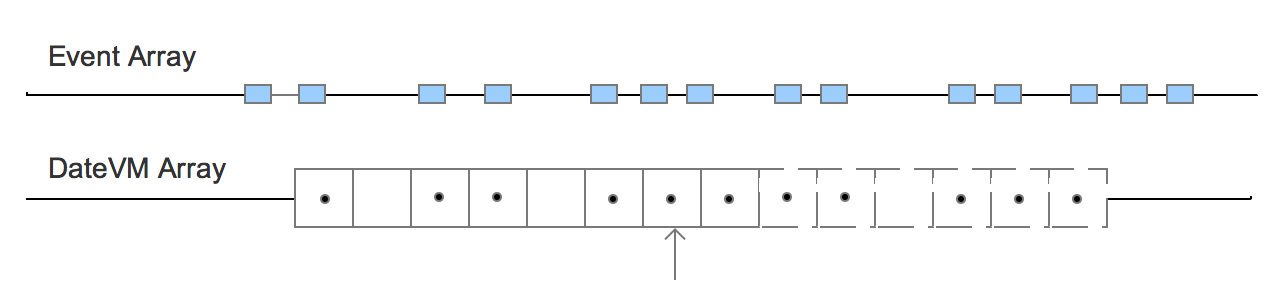
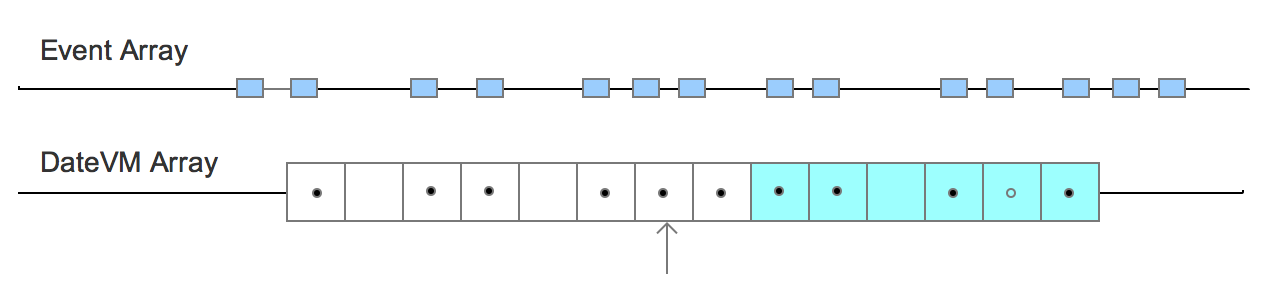
add more images

diff --git a/README.md b/README.md
@@ -102,7 +102,7 @@ The _BLScrollViewDelegate_ methods mostly explain itself already. We take use of
 
 The Calendar and Agenda will display user's event based on their local time, however event may involve with many people resident in different time zones. Even the same person, when he travels around the world, his local time may change from time to time. We need to find a way to map the event to different local time, we call it event settle logic.
 
-The ESL(event settle logic) is done in _BLDataProvider_, which is a singleton class. It has an event array and a dateVM array. The event array contains all the events for user. _BLDataProvider_ loads events from events.json file and parses it to _BLEvent_ object array. the startDate of _BLEvent_ is of UTC time, and has no relation with local time.
+The ESL(event settle logic) is done in _BLDataProvider_, which is a singleton class. It has an event array and a dateVM array, both array are time asc sorted. The event array contains all the events for user. _BLDataProvider_ loads events from events.json file and parses it to _BLEvent_ object array. the startDate of _BLEvent_ is of UTC time, and is independent with local time.
 ```Objective-C
 @interface BLEvent : NSObject
 
@@ -117,7 +117,11 @@ The ESL(event settle logic) is done in _BLDataProvider_, which is a singleton cl
 @end
 ```
 
-The _BLDateViewModel_ contains the date info and event array that settle in the date of local time. The dateVM array contains all the dateVM for recently visited date, and will preload the previous 31 days and next 31 days.
+The _BLDateViewModel_ contains a specific date of local time and events that settle in the date. The dateVM array contains all the dateVM for recently visited date, and will preload the previous 31 days and next 31 days.
+
+<img src="https://raw.githubusercontent.com/neolcs/BusyLife/readme/chart/datevm-settle.png" width="800"/>
+
+<img src="https://raw.githubusercontent.com/neolcs/BusyLife/readme/chart/datevm-settle-preload.png" width="800"/>
 
 
 
